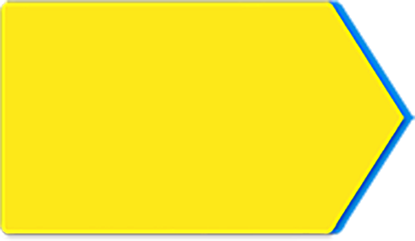
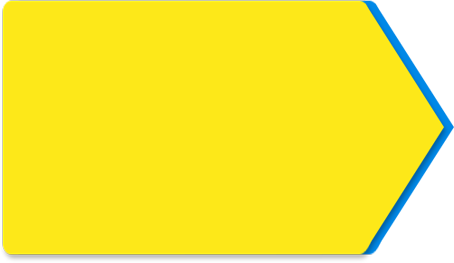
some changes

Changed region(s): [[0.0, 0.0, 1.0, 0.9876]]

diff --git a/wp-content/themes/sydney/style.css b/wp-content/themes/sydney/style.css
@@ -3945,16 +3945,16 @@ input[type="color"]:focus {
         width: 45% !important;
     }
 
-    .form-descr {
-        background: url('/wp-content/themes/sydney/img/arrow-block(add)_coral.png') no-repeat right center !important;
-        /*background-size: cover;*/
+    /*.form-descr {
+        background: url('/wp-content/themes/sydney/img/arrow-block(add)_coral_yellow.png') no-repeat right center !important;
+        !*background-size: cover;*!
         background-size: 100% !important;
         padding-bottom: 180px !important;
-        /*padding: 35px 80px 35px 35px;*/
+        !*padding: 35px 80px 35px 35px;*!
         margin-top: 15px;
         margin-right: 0 !important;
         text-align: left;
-    }
+    }*/
 
     .content-area .hentry {
         width: 31%;
@@ -3993,6 +3993,16 @@ input[type="color"]:focus {
    }
 }
 @media only screen and (max-width: 991px) {
+    .form-descr {
+        background: url('/wp-content/themes/sydney/img/arrow-block(add)_coral_yellow.png') no-repeat right center !important;
+        /*background-size: cover;*/
+    background-size: 100% !important;
+        padding-bottom: 180px !important;
+        /*padding: 35px 80px 35px 35px;*/
+    margin-top: 15px;
+        margin-right: 0 !important;
+        text-align: left;
+    }
     .content-area .entry-thumb .discount-image {
         width: 140px;
         height: 140px;
@@ -6270,7 +6280,7 @@ input[type="color"]:focus {
 .form-descr {
     background: url("/wp-content/themes/sydney/img/triangle.png") no-repeat right center;
     /*background-size: cover;*/
-    width: 425px;
+    width: 455px;
     padding: 35px 80px 35px 35px;
     margin-top: 10px;
     margin-right: 50px;
